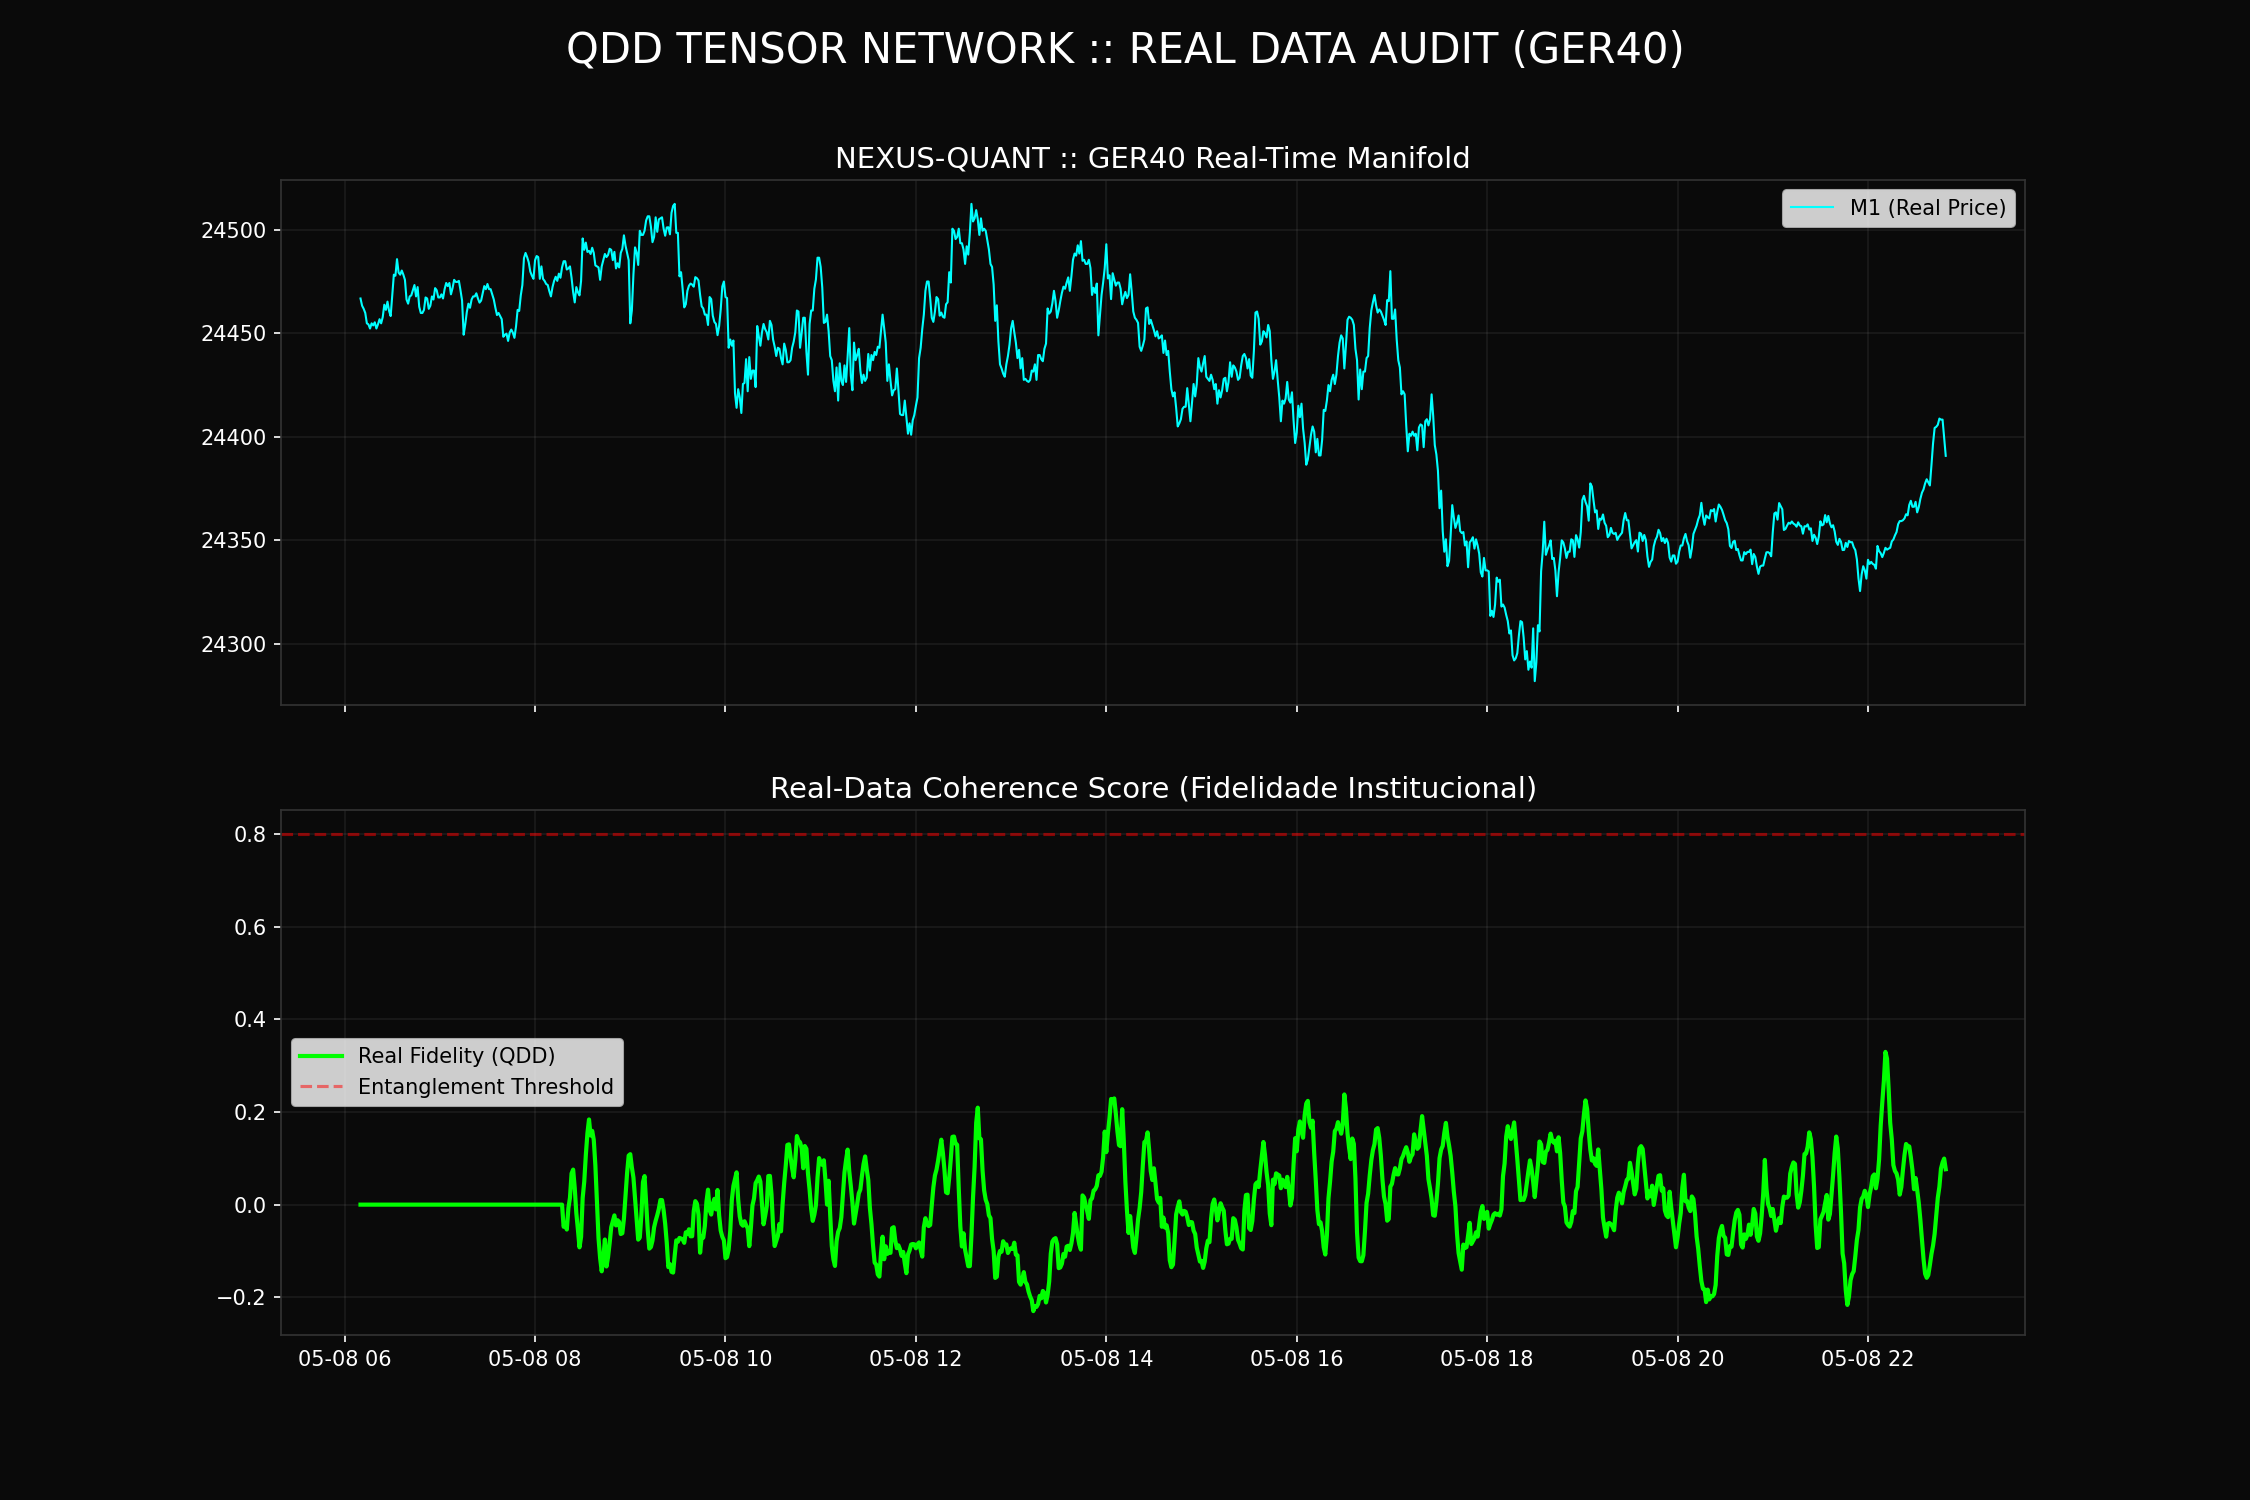
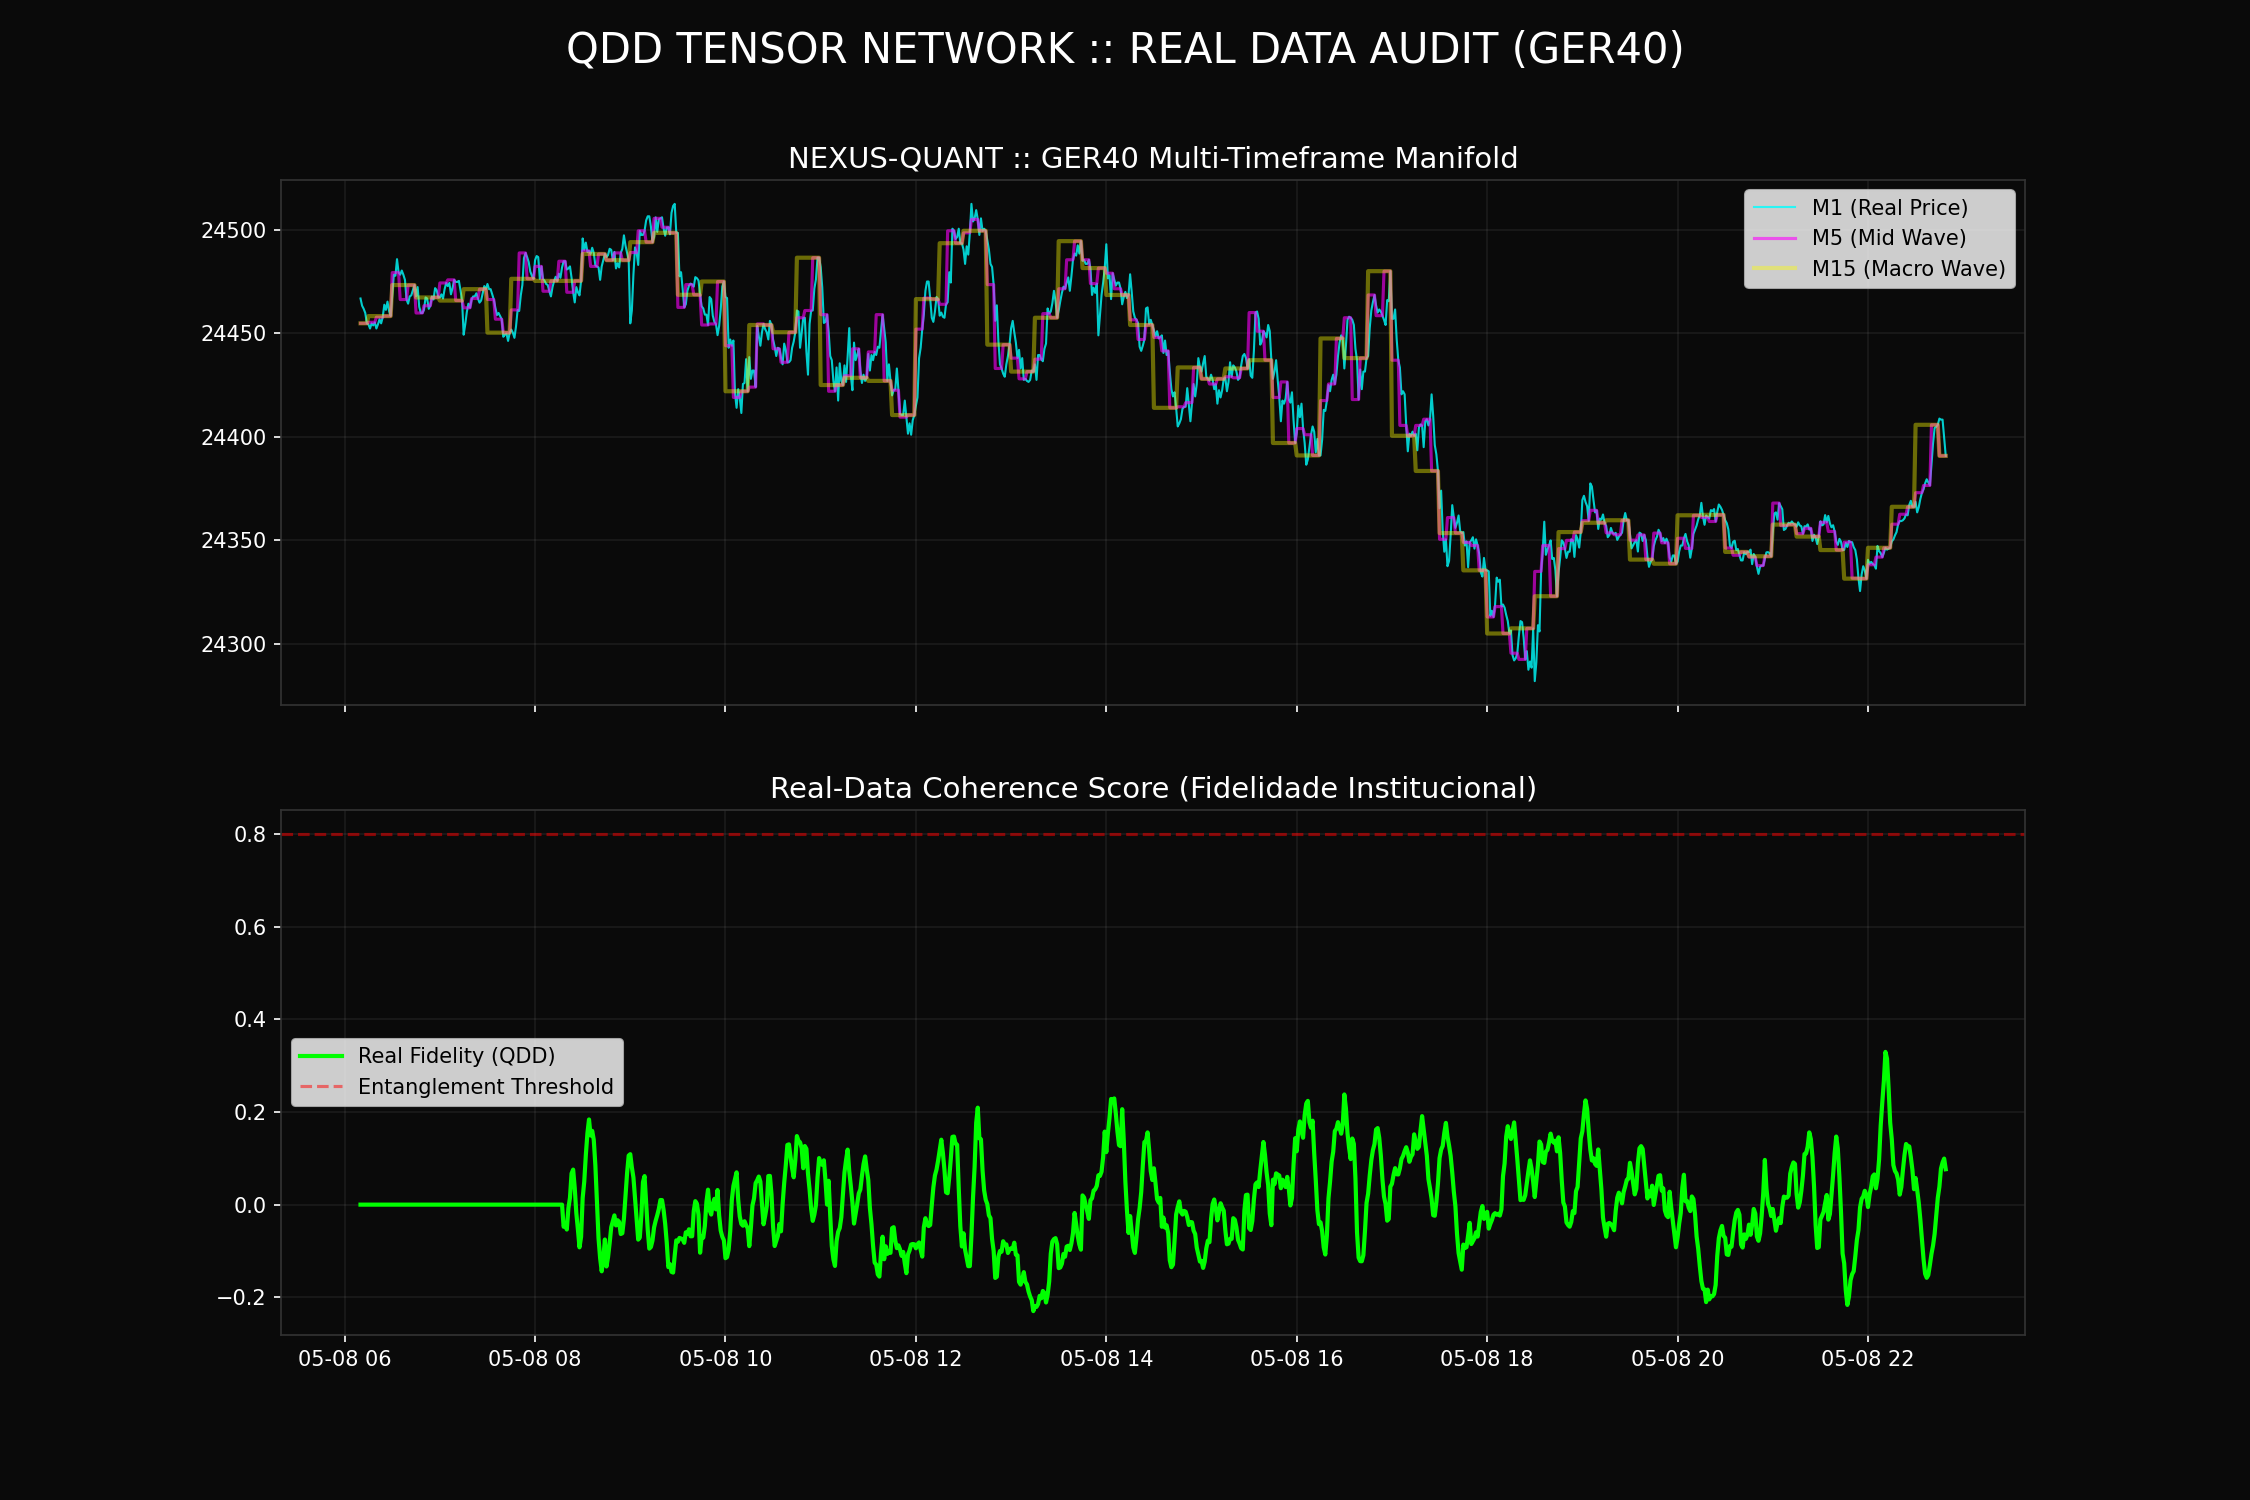
AGI-PUSH: QDD v5.5 - Auditoria Multi-Timeframe (M1+M5+M15) Finalizada

diff --git a/Code/N_Core/test_qdd_real_data.py b/Code/N_Core/test_qdd_real_data.py
@@ -92,8 +92,15 @@ def run_real_data_audit():
     # Plotting
     fig, (ax1, ax2) = plt.subplots(2, 1, figsize=(15, 10), sharex=True)
     
-    ax1.plot(raw_data['M1'].index, raw_data['M1']['close'], color='cyan', label='M1 (Real Price)', linewidth=1)
-    ax1.set_title(f"NEXUS-QUANT :: {symbol} Real-Time Manifold", color='white', fontsize=14)
+    # Prepara M5 e M15 para o plot (Reindex para alinhar com M1)
+    m5_aligned = raw_data['M5'].reindex(base_df.index, method='ffill')
+    m15_aligned = raw_data['M15'].reindex(base_df.index, method='ffill')
+
+    ax1.plot(base_df.index, base_df['close'], color='cyan', label='M1 (Real Price)', linewidth=1, alpha=0.8)
+    ax1.plot(base_df.index, m5_aligned['close'], color='magenta', label='M5 (Mid Wave)', linewidth=1.5, alpha=0.6)
+    ax1.plot(base_df.index, m15_aligned['close'], color='yellow', label='M15 (Macro Wave)', linewidth=2, alpha=0.4)
+    
+    ax1.set_title(f"NEXUS-QUANT :: {symbol} Multi-Timeframe Manifold", color='white', fontsize=14)
     ax1.legend()
     ax1.grid(alpha=0.1)
     